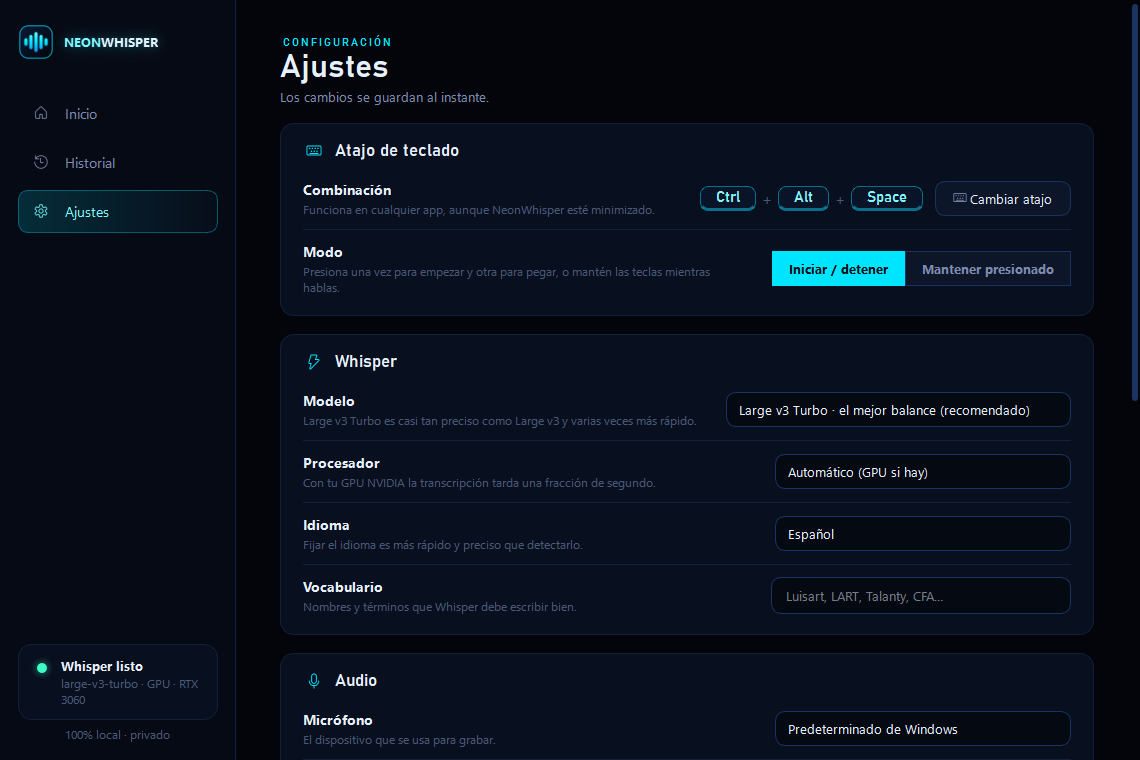
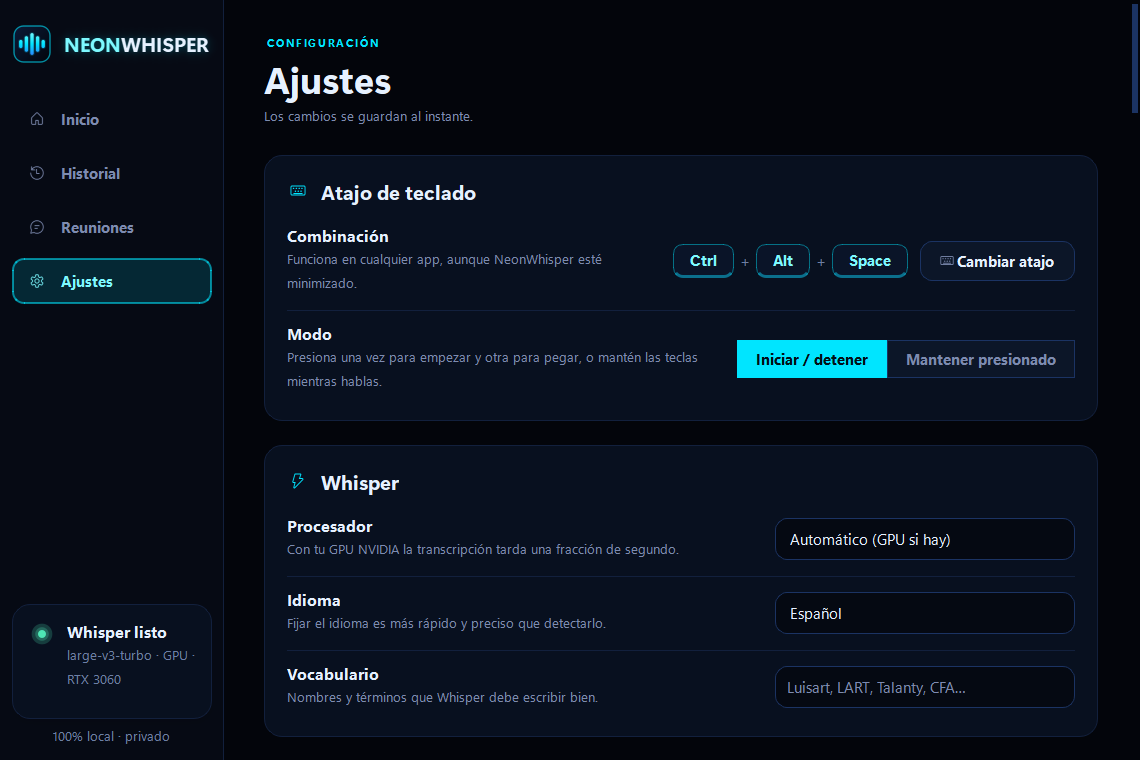
README: cuatro temas, capturas de la interfaz nueva y como actualizar desde la app
Las capturas eran de la interfaz anterior. Tambien faltaba el tema Pastel (el
README decia tres), el borrado multiple de reuniones y el actualizador, y la
seccion de actualizar seguia explicando el caso de repositorio privado.

diff --git a/README.md b/README.md
@@ -19,10 +19,11 @@
 - **Dos modos**: *Iniciar / detener* (presionas una vez para hablar y otra para pegar) o *Mantener presionado* (walkie-talkie).
 - **Pega automáticamente** donde está tu cursor y después restaura lo que tenías en el portapapeles.
 - **Barra flotante neón** con las ondas de tu voz en tiempo real, cronómetro y botón para cancelar (`Esc` también cancela).
-- **3 temas de interfaz** (Ajustes → Apariencia): *Neón* (negro con brillo azul), *Cristal* (vidrio azul, claro y luminoso) y *Sutil* (negro con tonos blancos, sin color). Pintan toda la app —fondos, acentos, el orbe del micrófono y el ícono— y el cambio es inmediato, sin reiniciar.
-- **Barra flotante a tu gusto** (Ajustes → Barra flotante): los mismos 3 diseños, tamaño, transparencia del fondo y opacidad, con vista previa en pantalla. Por defecto se pone a juego con el tema; puedes combinarlos como quieras.
+- **4 temas de interfaz** (Ajustes → Apariencia): *Neón* (negro con brillo azul), *Cristal* (vidrio azul, claro y luminoso), *Sutil* (negro con tonos blancos, sin color) y *Pastel* (crema con lavanda, menta y durazno, el único claro). Pintan toda la app —fondos, acentos, el orbe del micrófono y el ícono— y el cambio es inmediato, sin reiniciar.
+- **Barra flotante a tu gusto** (Ajustes → Barra flotante): los mismos 4 diseños, tamaño, transparencia del fondo y opacidad, con vista previa en pantalla. Por defecto se pone a juego con el tema; puedes combinarlos como quieras.
 - **Sonidos** al empezar y terminar de grabar, con volumen ajustable.
 - **Historial** con búsqueda, copiar, borrar y exportar a `.txt`.
+- **Limpiar reuniones a granel**: en la pestaña Reuniones, **Seleccionar** deja elegir varias con casillas (o *Todas*) y borrarlas de un golpe, junto con su audio. La que se está grabando no se puede borrar.
 - **Whisper large-v3-turbo** con [faster-whisper](https://github.com/SYSTRAN/faster-whisper): en una GPU NVIDIA transcribe ~9 s de audio en ~0.4 s. Si no hay GPU, usa el CPU automáticamente.
 - **Vocabulario personalizado** para que escriba bien nombres propios y términos técnicos.
 - **Prueba de micrófono**: graba 4 segundos, mide el nivel y te reproduce lo que grabó.
@@ -32,6 +33,7 @@
 - **Transcripción en vivo y tus notas**: ve lo que se va diciendo mientras la reunión ocurre y apunta lo tuyo al lado; tus notas entran en el resumen final.
 - **Plantillas de resumen**: acta, 1:1, entrevista, llamada de ventas o daily.
 - **Pregúntale a tus reuniones**: «¿qué quedó pendiente para mí?» — responde el modelo local con lo que digan tus transcripciones, citando de qué reunión sale cada dato.
+- **Se actualiza sola**: *Ajustes → Actualizaciones* compara tu versión con la publicada en este repositorio y la instala con un botón. Tus ajustes, tu historial y tus modelos no se tocan.
 - **Programa de verdad**: se instala en Archivos de programa, corre como `NeonWhisper.exe` y aparece en *Aplicaciones instaladas* de Windows, con su botón de desinstalar.
 - **Privado**: tu voz nunca sale de tu computadora.
 
@@ -41,7 +43,11 @@
 </p>
 
 <p align="center">
-  <img src="docs/overlay_designs.png" width="820" alt="Diseños de la barra flotante: Neón, Cristal y Sutil">
+  <img src="docs/overlay_designs.png" width="820" alt="Diseños de la barra flotante: Neón, Cristal, Sutil y Pastel">
+</p>
+
+<p align="center">
+  <img src="docs/themes.png" width="820" alt="Los cuatro temas: Neón, Cristal, Sutil y Pastel">
 </p>
 
 ## Instalación (Windows 10/11)
@@ -66,15 +72,19 @@ Si vienes de una versión anterior, el instalador **mueve tus modelos** a la car
 
 ## Actualizar
 
-Doble clic en **`Actualizar.bat`** (está en la carpeta del programa). Compara versiones, reemplaza los archivos, revisa dependencias y vuelve a abrir la app. Tus **ajustes**, tu **historial** y tus **modelos** quedan intactos.
+**Desde la app**: *Ajustes → Actualizaciones → Buscar actualizaciones*. Compara tu versión con la publicada aquí y, si hay una más nueva, la instala con un botón. La app se cierra sola mientras se instala y vuelve a abrirse al terminar; te avisa antes de empezar.
 
-Si el repositorio es privado, primero baja el ZIP (botón verde **Code → Download ZIP**) y déjalo en Descargas: `Actualizar.bat` lo encuentra solo. También puedes pasarle la ruta:
+**A mano**: doble clic en **`Actualizar.bat`**, en la carpeta del programa. Hace exactamente lo mismo desde una consola.
+
+En los dos casos tus **ajustes**, tu **historial** y tus **modelos** quedan intactos.
+
+Sin internet, baja el ZIP (botón verde **Code → Download ZIP**) y déjalo en Descargas: `Actualizar.bat` lo encuentra solo. También puedes pasarle la ruta:
 
 ```
 Actualizar.bat -Zip "C:\Users\tu-usuario\Downloads\NeonWhisper-main.zip"
 ```
 
-Si tu carpeta es un clon de git, actualízala con `git pull` y `uv sync` en vez de `Actualizar.bat`.
+Si tu carpeta es un clon de git, actualízala con `git pull` y `uv sync`: la app lo detecta y te lo dice en vez de pisarte el repositorio.
 
 ## Desinstalar
 
@@ -90,6 +100,7 @@ Quita el programa, sus accesos directos, el inicio con Windows y su registro. An
 | Cancelar | `Esc` o la ✕ de la barra flotante |
 | Cambiar atajo | Ajustes → Atajo de teclado → **Cambiar atajo** y presiona tu combinación |
 | Ver historial | Pestaña **Historial** (buscar, copiar, borrar, exportar) |
+| Borrar varias reuniones | Pestaña **Reuniones** → **Seleccionar** → marca las que quieras → **Borrar** |
 | Grabar una reunión a mano | Pestaña **Reuniones** → **Grabar ahora**, o clic derecho en la bandeja |
 | Salir | Clic derecho en el ícono de la bandeja → **Salir** |
 
@@ -98,6 +109,10 @@ Si dictas con la ventana de NeonWhisper enfocada (por ejemplo, haciendo clic en 
 <p align="center">
   <img src="docs/settings.png" width="410" alt="Ajustes">
   <img src="docs/history.png" width="410" alt="Historial">
+</p>
+
+<p align="center">
+  <img src="docs/meetings.png" width="820" alt="Pestaña de Reuniones">
 </p>
 
 ## Reuniones
